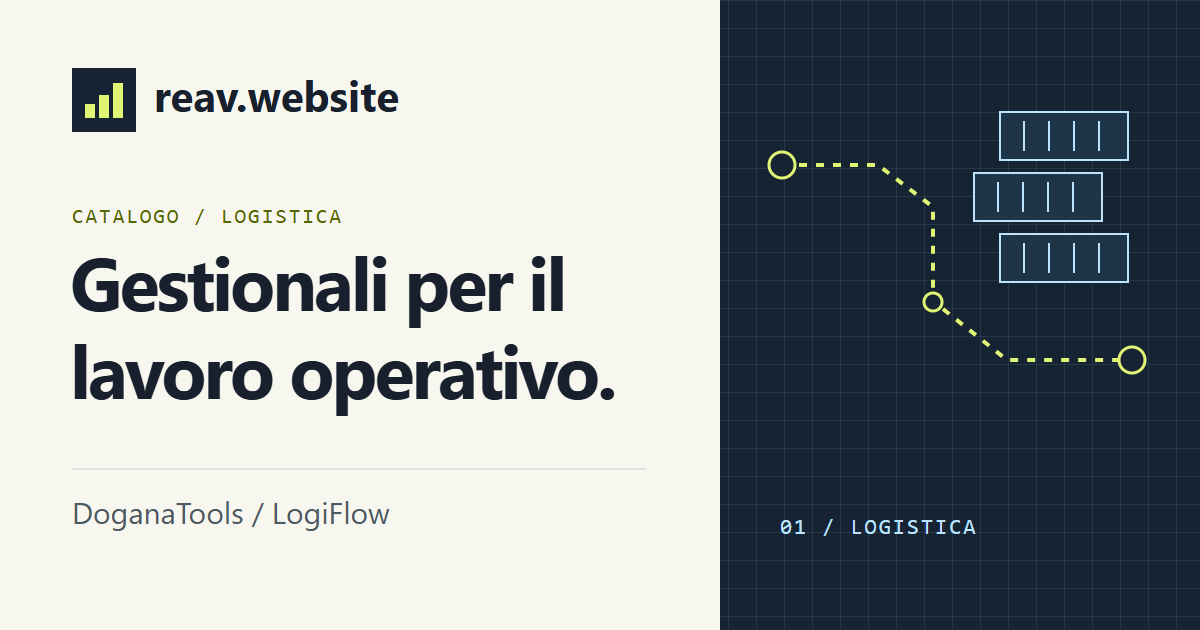
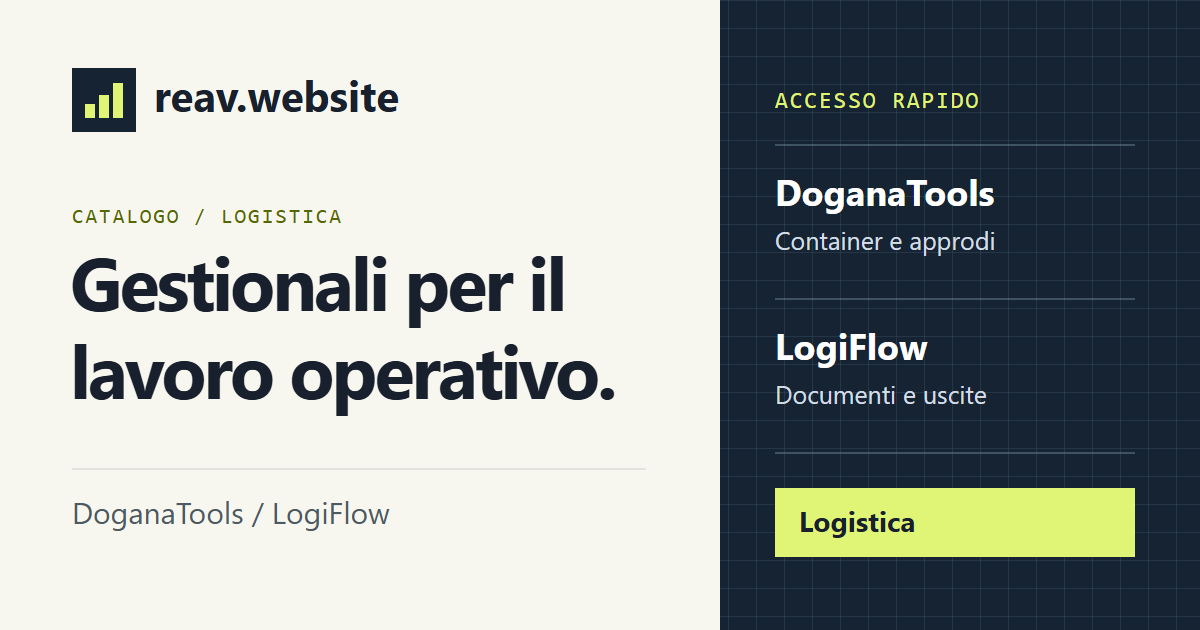
Sostituisce la carta operativa con accessi rapidi ai gestionali

diff --git a/src/assets/hub.css b/src/assets/hub.css
@@ -34,7 +34,7 @@ svg { flex: none; width: 1.1em; height: 1.1em; fill: none; stroke: currentColor;
 .masthead nav { display: flex; align-items: center; flex-wrap: wrap; gap: .5rem 1.55rem; }
 .masthead nav a { font-size: .88rem; font-weight: 640; text-decoration: none; }
 .masthead nav a:is(:hover,[aria-current]) { text-decoration: underline; }
-.mast-label, .eyebrow, .section-cap, .row-number, .port-panel figcaption, .port-link small {
+.mast-label, .eyebrow, .section-cap, .row-number {
   font: 600 .72rem/1.4 var(--mono);
   letter-spacing: .095em;
   text-transform: uppercase;
@@ -56,14 +56,20 @@ h1 > span { color: #526900; }
 .action-dark:hover { color: var(--ink); background: var(--lime); }
 .action-dark:hover svg { color: inherit; }
 
-.port-panel { display: grid; min-width: 0; background: var(--night); color: #fff; border: 1px solid var(--night); }
-.port-panel figcaption { display: flex; justify-content: space-between; gap: 8px; padding: .95rem 1.15rem; color: #c4d4de; border-bottom: 1px solid #425566; }
-.port-panel img { width: 100%; }
-.port-link { display: flex; align-items: center; justify-content: space-between; gap: 1rem; padding: .78rem 1.12rem; background: var(--lime); color: var(--ink); text-decoration: none; }
-.port-link:hover { background: #efff9b; }
-.port-link span { display: grid; gap: .12rem; }
-.port-link strong { font-size: 1.55rem; line-height: 1.08; letter-spacing: -.04em; }
-.port-link svg { width: 1.5rem; height: 1.5rem; }
+.quick-access { min-width: 0; background: var(--night); color: #fff; border: 1px solid var(--night); }
+.quick-head { padding: clamp(1rem, 3vw, 1.7rem) clamp(1rem, 3vw, 1.7rem) .9rem; }
+.quick-head .eyebrow { color: var(--lime); margin-bottom: .45rem; }
+.quick-head h2 { font-size: clamp(1.65rem, 3.5vw, 2.4rem); font-weight: 740; letter-spacing: -.046em; }
+.quick-access ul { list-style: none; margin: 0; padding: 0; }
+.quick-link { display: grid; grid-template-columns: auto minmax(0, 1fr) auto; align-items: center; gap: .9rem; padding: 1.1rem clamp(1rem, 3vw, 1.7rem); border-top: 1px solid #405163; text-decoration: none; }
+.quick-link:hover { background: #243747; }
+.quick-link:focus-visible { outline-color: var(--lime); outline-offset: -3px; }
+.quick-link > svg { width: 1.3rem; height: 1.3rem; color: var(--lime); }
+.quick-copy { display: grid; gap: .18rem; }
+.quick-copy strong { font-size: 1.17rem; font-weight: 730; line-height: 1.2; }
+.quick-copy > span { color: #d2dde5; font-size: .9rem; }
+.quick-sector { display: flex; justify-content: space-between; align-items: center; gap: .75rem; min-height: 54px; padding: .7rem clamp(1rem, 3vw, 1.7rem); background: var(--lime); color: var(--ink); font-size: .95rem; font-weight: 690; text-decoration: none; }
+.quick-sector:hover { background: #efff9b; }
 
 .catalog { scroll-margin-top: 1rem; padding-bottom: clamp(65px, 8vw, 112px); }
 .section-cap { display: flex; align-items: center; justify-content: space-between; gap: .6rem; border-top: 1px solid var(--line); padding-top: .8rem; color: var(--muted); }
@@ -96,11 +102,10 @@ h1 > span { color: #526900; }
 .crumbs ol { display: flex; flex-wrap: wrap; gap: .42rem .65rem; color: var(--muted); font-size: .86rem; }
 .crumbs li + li::before { content: "/"; color: #667967; margin-inline-end: .65rem; }
 .crumbs [aria-current] { color: var(--ink); font-weight: 670; }
-.section-hero, .product-hero { display: grid; grid-template-columns: minmax(0, 1.35fr) minmax(0, .65fr); align-items: center; gap: clamp(20px, 5vw, 70px); padding-block: clamp(40px, 6vw, 80px); }
+.section-hero { padding-block: clamp(40px, 6vw, 80px); }
+.product-hero { display: grid; grid-template-columns: minmax(0, 1.35fr) minmax(0, .65fr); align-items: center; gap: clamp(20px, 5vw, 70px); padding-block: clamp(40px, 6vw, 80px); }
 .section-hero .eyebrow, .product-hero .eyebrow { margin-bottom: .9rem; }
 .section-hero .lead { margin-bottom: 0; }
-.section-figure { background: var(--night); display: grid; color: #fff; }
-.section-figure > span { font: 600 .85rem/1 var(--mono); padding: .9rem; color: var(--lime); border-bottom: 1px solid #425566; }
 .section-title { font-size: clamp(1.8rem, 3.4vw, 3rem); padding-bottom: .9rem; border-bottom: 1px solid var(--line); }
 .product-subtitle { margin-top: .65rem; font-size: clamp(1.2rem, 2.5vw, 1.9rem); font-weight: 680; letter-spacing: -.04em; line-height: 1.2; }
 .product-plate { min-height: 255px; display: grid; grid-template-rows: auto 1fr auto auto; justify-items: start; gap: .5rem; border: 1px solid var(--ink); padding: 1.2rem; }
@@ -133,10 +138,9 @@ h1 > span { color: #526900; }
 }
 @media (max-width: 780px) {
   .shell { width: calc(100% - 40px); }
-  .home-hero, .section-hero, .product-hero, .features { grid-template-columns: minmax(0, 1fr); }
+  .home-hero, .product-hero, .features { grid-template-columns: minmax(0, 1fr); }
   .home-hero { gap: 1.85rem; }
-  .port-panel { max-width: 560px; }
-  .section-figure { max-width: 320px; }
+  .quick-access { max-width: 560px; }
   .product-plate { max-width: 500px; min-height: 210px; }
   .mast-label { display: none; }
 }
